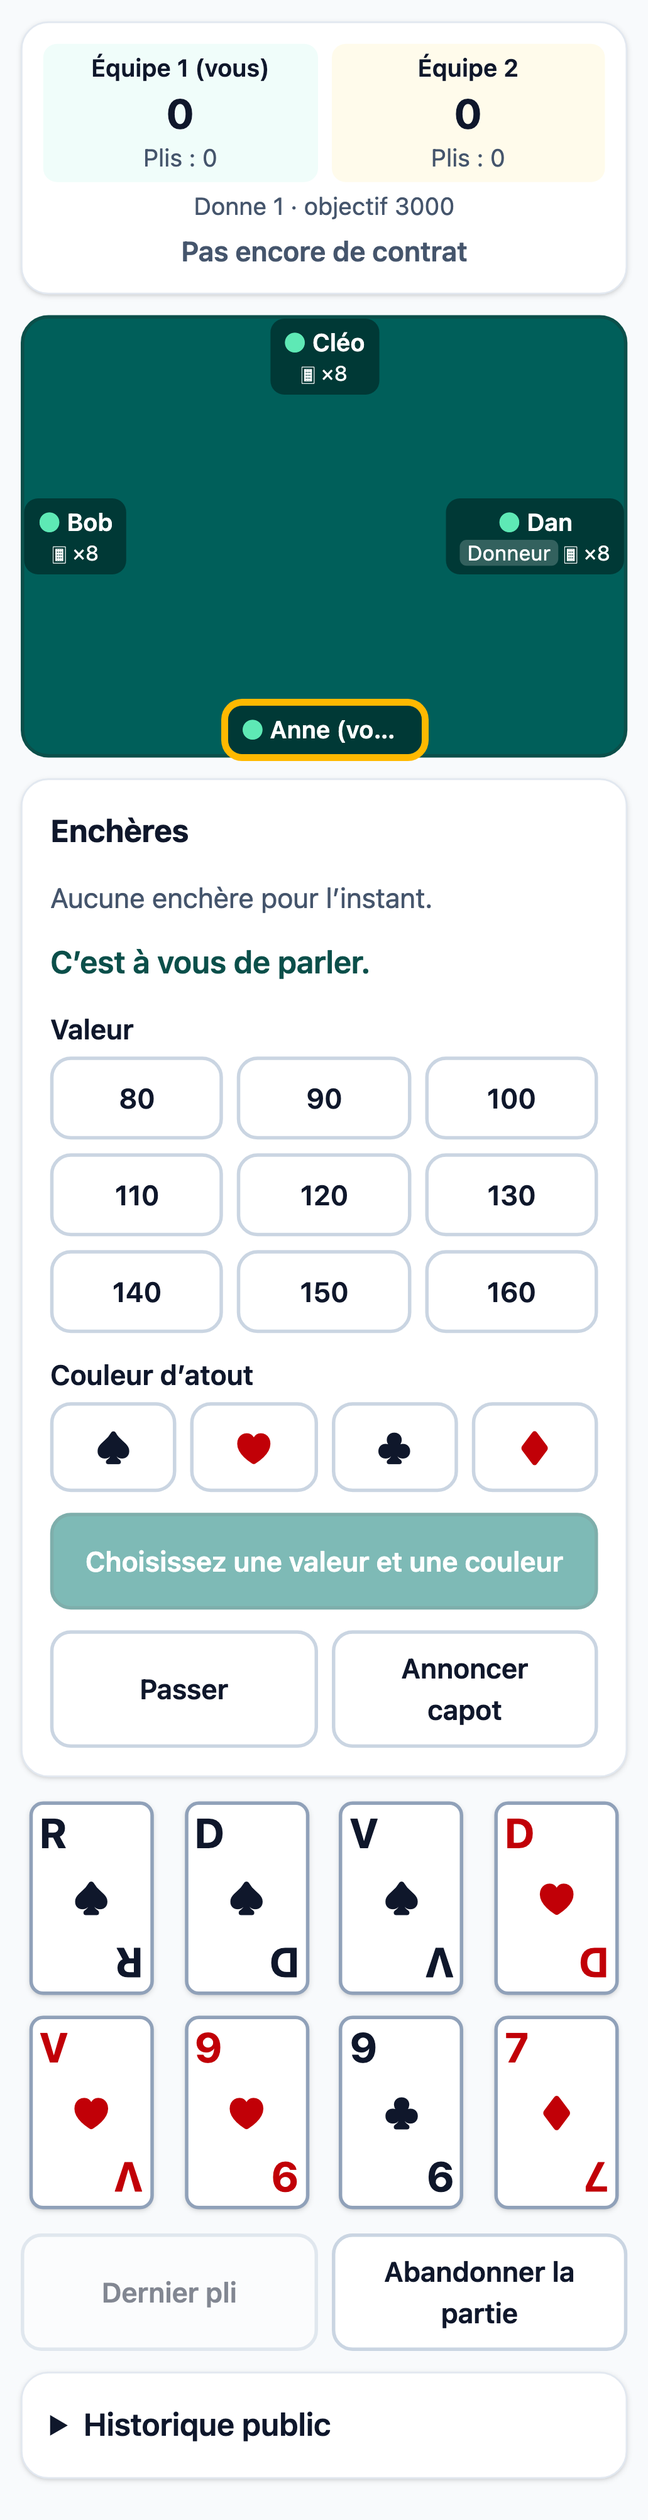
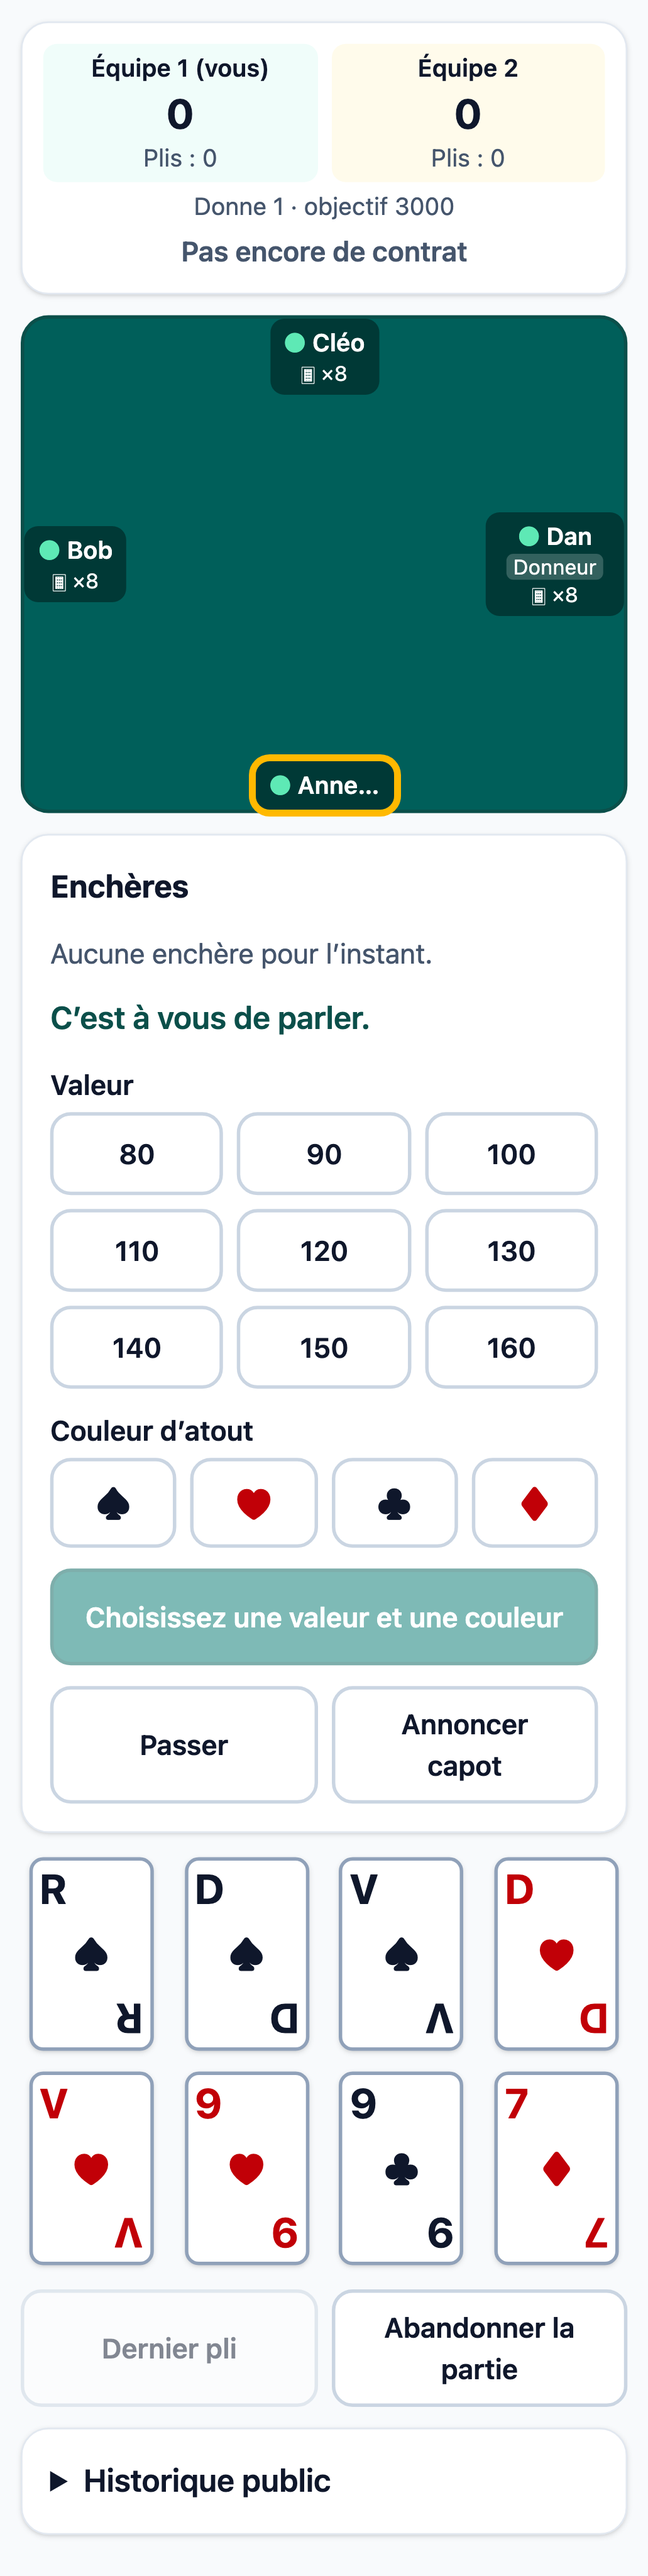
Client : étiquettes des joueurs latéraux ne recouvrent plus les cartes du pli (375 px), attribut back-label

diff --git a/src/online/components/OnlineTable.vue b/src/online/components/OnlineTable.vue
@@ -181,13 +181,13 @@ const turnLabel = computed(() => {
 
     <!-- Table -->
     <section
-      class="relative h-64 rounded-2xl border-2 border-teal-900 bg-teal-800 p-1 text-white"
+      class="relative h-72 rounded-2xl border-2 border-teal-900 bg-teal-800 p-1 text-white"
       aria-label="Table de jeu"
     >
       <div
         v-for="slot in [0, 1, 2, 3] as const"
         :key="slot"
-        class="absolute z-10 max-w-[7rem] rounded-lg bg-black/40 px-2 py-1 text-center text-sm"
+        class="absolute z-10 max-w-[5rem] rounded-lg bg-black/40 px-2 py-1 text-center text-sm"
         :class="[slotClass[slot], round.turn === bySlot[slot] ? 'ring-4 ring-amber-400' : '']"
         :data-testid="`seat-tag-${slot}`"
       >
@@ -213,9 +213,9 @@ const turnLabel = computed(() => {
         :class="[
           {
             0: 'bottom-14 left-1/2 -translate-x-1/2',
-            1: 'left-14 top-1/2 -translate-y-1/2',
-            2: 'left-1/2 top-14 -translate-x-1/2',
-            3: 'right-14 top-1/2 -translate-y-1/2',
+            1: 'left-[5.25rem] top-1/2 -translate-y-1/2',
+            2: 'left-1/2 top-12 -translate-x-1/2',
+            3: 'right-[5.25rem] top-1/2 -translate-y-1/2',
           }[relPos(me, t.seat)],
           centerIsShown ? 'opacity-70' : '',
         ]"

diff --git a/src/views/OnlineHomeView.vue b/src/views/OnlineHomeView.vue
@@ -40,7 +40,7 @@ const when = (t: number) => new Date(t).toLocaleString('fr-FR', { dateStyle: 'sh
 </script>
 
 <template>
-  <PageHeader title="Jouer en ligne" back="/" backLabel="Accueil" />
+  <PageHeader title="Jouer en ligne" back="/" back-label="Accueil" />
   <p v-if="!onlineEnabled" class="note" role="status">
     Le jeu en ligne n’est pas disponible : aucun serveur n’est configuré.
   </p>
